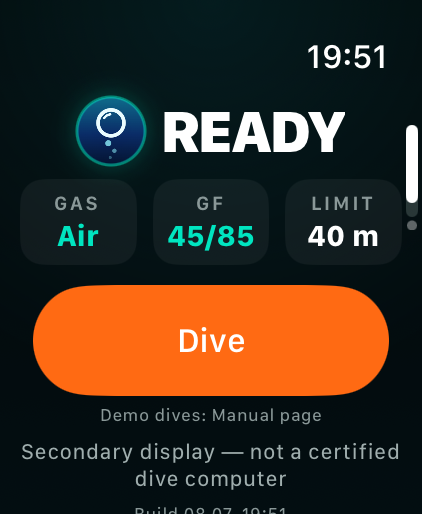
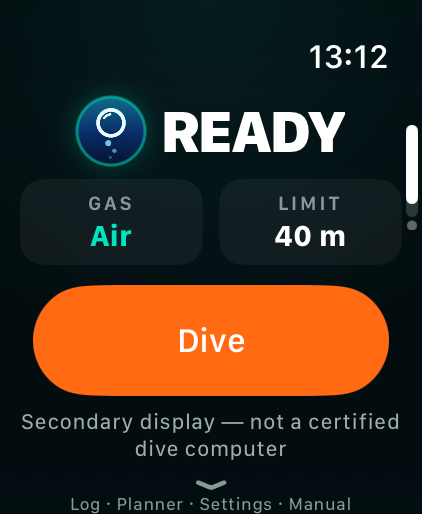
Sync READY screenshot + manual mirror with master (GF cell dropped, #91)
- assets/screens/ready.png: fresh capture after #91 — the pre-dive row is now
  GAS · LIMIT (gradient factors moved to Settings), and the down-chevron names the
  full surface ring (Log · Planner · Settings · Manual).
- READY figure alt/caption (EN + DE): drop "gradient factors" / "GF".
- manual/index.md regenerated from MANUAL.md: READY entry now "gas, sensor limit
  and battery", BAT cell "next to GAS/LIMIT".

diff --git a/de/index.html b/de/index.html
@@ -186,7 +186,7 @@
 
   <h2>Beispiel-Screens</h2>
   <div class="screens">
-    <figure><img src="../assets/screens/ready.png?v=3" alt="READY-Screen mit Gas, Gradient Factors und Sensorlimit"><figcaption>Vor dem Tauchgang: Gas, GF, Sensorlimit — und der Disclaimer</figcaption></figure>
+    <figure><img src="../assets/screens/ready.png?v=3" alt="READY-Screen mit Gas und Sensorlimit, dem Dive-Button und dem Secondary-Display-Disclaimer"><figcaption>Vor dem Tauchgang: Gas, Sensorlimit — und der Disclaimer</figcaption></figure>
     <figure><img src="../assets/screens/dive-air.png?v=3" alt="Tauchanzeige mit Tiefe und Nullzeit"><figcaption>Im Tauchgang: die Tiefe beherrscht den Screen</figcaption></figure>
     <figure><img src="../assets/screens/night.png?v=3" alt="Nachtmodus: die Tauchanzeige in gedämpftem rotem Monochrom"><figcaption>Nachtmodus: gedämpftes Rot, schont die Dunkeladaption</figcaption></figure>
     <figure><img src="../assets/screens/deco.png?v=3" alt="Dekompressionsanzeige mit erstem Stop und Time-to-Surface"><figcaption>Deko: erster Stop und Time-to-Surface</figcaption></figure>

diff --git a/index.html b/index.html
@@ -199,7 +199,7 @@
 
   <h2>Example screens</h2>
   <div class="screens">
-    <figure><img src="assets/screens/ready.png?v=3" alt="READY screen with gas, gradient factors and sensor limit"><figcaption>Pre-dive: gas, GF, sensor limit — and the disclaimer</figcaption></figure>
+    <figure><img src="assets/screens/ready.png?v=3" alt="READY screen with gas and sensor limit, the Dive button and the secondary-display disclaimer"><figcaption>Pre-dive: gas, sensor limit — and the disclaimer</figcaption></figure>
     <figure><img src="assets/screens/dive-air.png?v=3" alt="Dive screen showing depth and no-deco limit"><figcaption>In the dive: depth rules the screen</figcaption></figure>
     <figure><img src="assets/screens/night.png?v=3" alt="Night mode: the dive display in a dim red monochrome palette"><figcaption>Night mode: dim red, keeps your dark adaptation</figcaption></figure>
     <figure><img src="assets/screens/deco.png?v=3" alt="Decompression screen with first stop and time to surface"><figcaption>Deco: first stop and time-to-surface</figcaption></figure>

diff --git a/manual/index.md b/manual/index.md
@@ -121,7 +121,7 @@ Colour is never the only signal — every state also changes its text. Teal = fi
 
 | Term | Meaning |
 |---|---|
-| **READY** | At the surface, before a dive: gas, GF, sensor limit, plus the DIVE button (demo dives live on the Manual page). The teal GAS and GF cells open their setting directly; LIMIT is the sensor's statement, not a choice. Notices (restored tissue state, no-fly, low battery) appear here. |
+| **READY** | At the surface, before a dive: gas, sensor limit and battery, plus the DIVE button (demo dives live on the Manual page). The teal GAS cell opens its setting directly; LIMIT is the sensor's statement, not a choice. Gradient factors and the rest live in Settings, not on this row — they change rarely. Notices (restored tissue state, no-fly, low battery) appear here. |
 | **Teal depth** | Inside the NDL, comfortably. Nothing to do but enjoy. |
 | **▲ ASCEND SOON (amber)** | NDL at or below 5 min: begin the ascent soon or accept a deco obligation. |
 | **DECOMPRESSION (amber badge)** | Direct ascent no longer allowed. The card shows the first stop (depth · minutes) and TTS. Ascend to the stop, never above it. |
@@ -157,7 +157,7 @@ A visible failure beats a plausible wrong number. These lines can appear at the 
 | **Tissue loading restored…** | The app was restarted and resumed the saved tissue state, off-gassed across the gap. Normal after closing the app between dives. |
 | **Restored after an interrupted dive — estimate degraded** | The app went down mid-dive; the gap was bridged conservatively by assumption. Trust only the certified computer for the rest of the day. |
 | **Depth sensor fault** | The watch itself flagged its depth reading as unreliable. The display can no longer be trusted for this dive. |
-| **BAT (GOOD / LOW / CRIT)** | Pre-dive battery cell on the READY screen, next to GAS/GF/LIMIT: GOOD at 80 % or more (the recommended charge before a dive), LOW below that, CRIT below 20 %. A standalone instrument that runs out of power loses the whole display, not just a convenience feature — charge to GOOD before entering the water. |
+| **BAT (GOOD / LOW / CRIT)** | Pre-dive battery cell on the READY screen, next to GAS/LIMIT: GOOD at 80 % or more (the recommended charge before a dive), LOW below that, CRIT below 20 %. A standalone instrument that runs out of power loses the whole display, not just a convenience feature — charge to GOOD before entering the water. |
 | **LOW BATTERY x%** | Watch battery below 20 % while diving — advisory. Start planning the ascent with margin. |
 | **BATTERY CRITICAL x%** | Watch battery below 10 % while diving — surface while there is still power to do so. Repeats every minute until you recharge. |
 